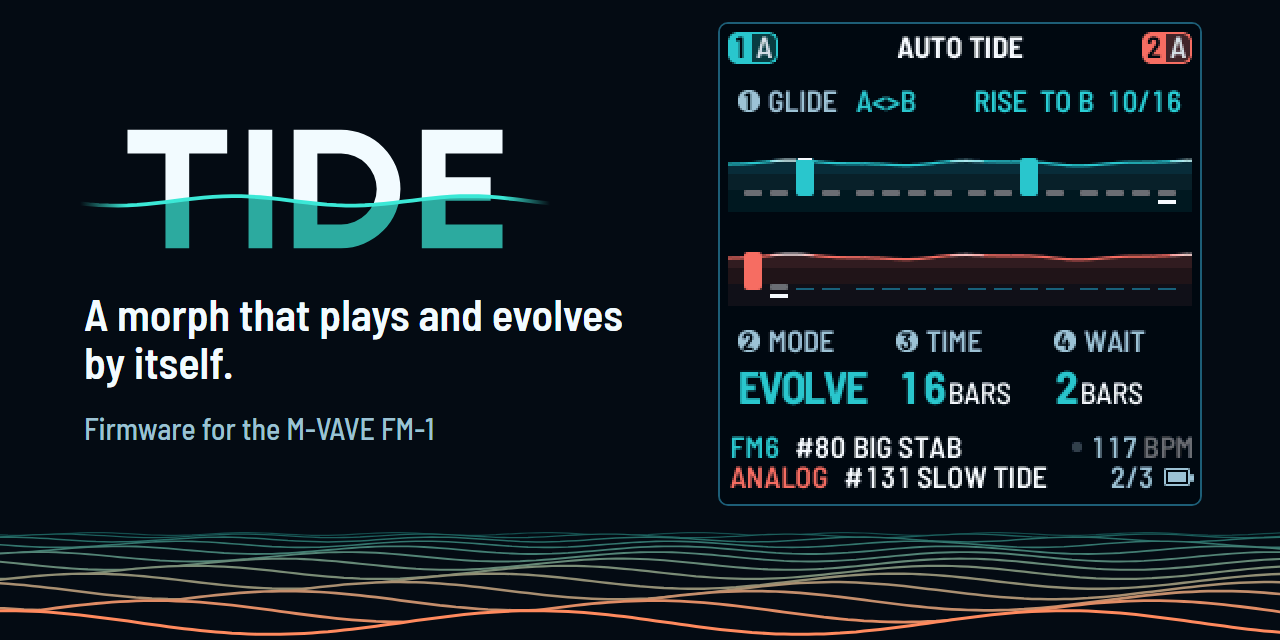
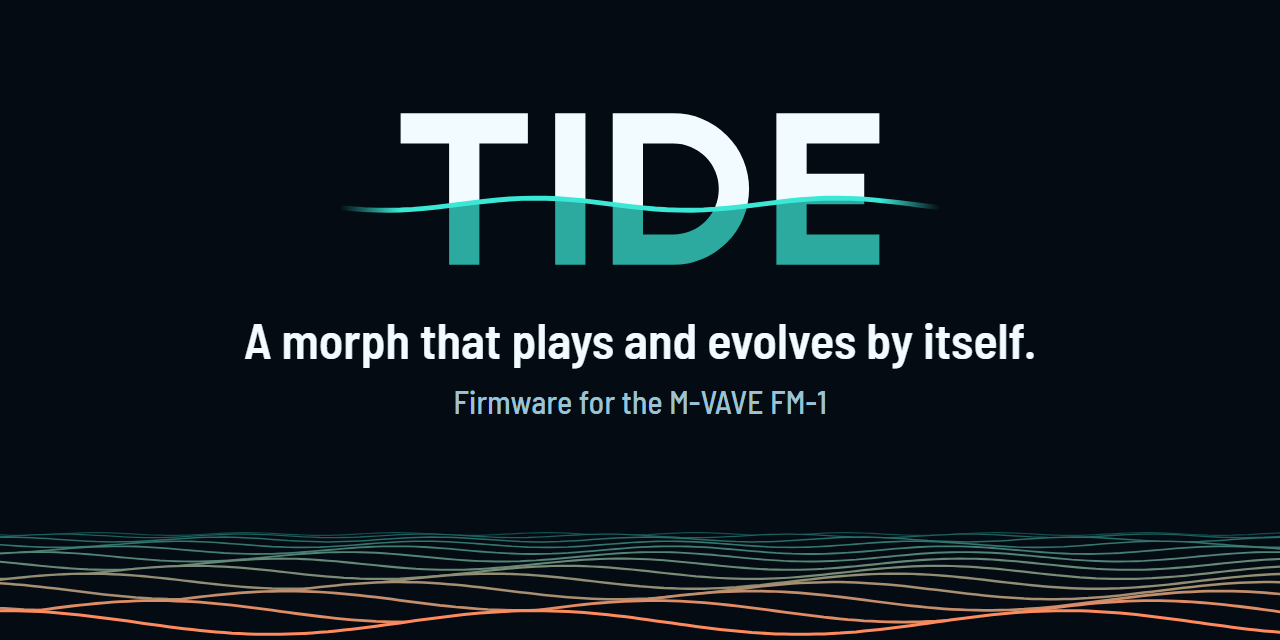
Cover and social image: the TIDE wordmark and the texts only, no unit screenshot (owner)

diff --git a/README.md b/README.md
@@ -1,4 +1,4 @@
-<p align="center"><img src="docs/tide-banner.png" alt="TIDE for FM-1: the TIDE wordmark on a night sea, next to the AUTO TIDE page of the unit with both parts gliding" width="960"></p>
+<p align="center"><img src="docs/tide-banner.png" alt="TIDE for FM-1: the TIDE wordmark on a night sea, with the line A morph that plays and evolves by itself. Firmware for the M-VAVE FM-1." width="960"></p>
 
 # TIDE for FM-1
 
